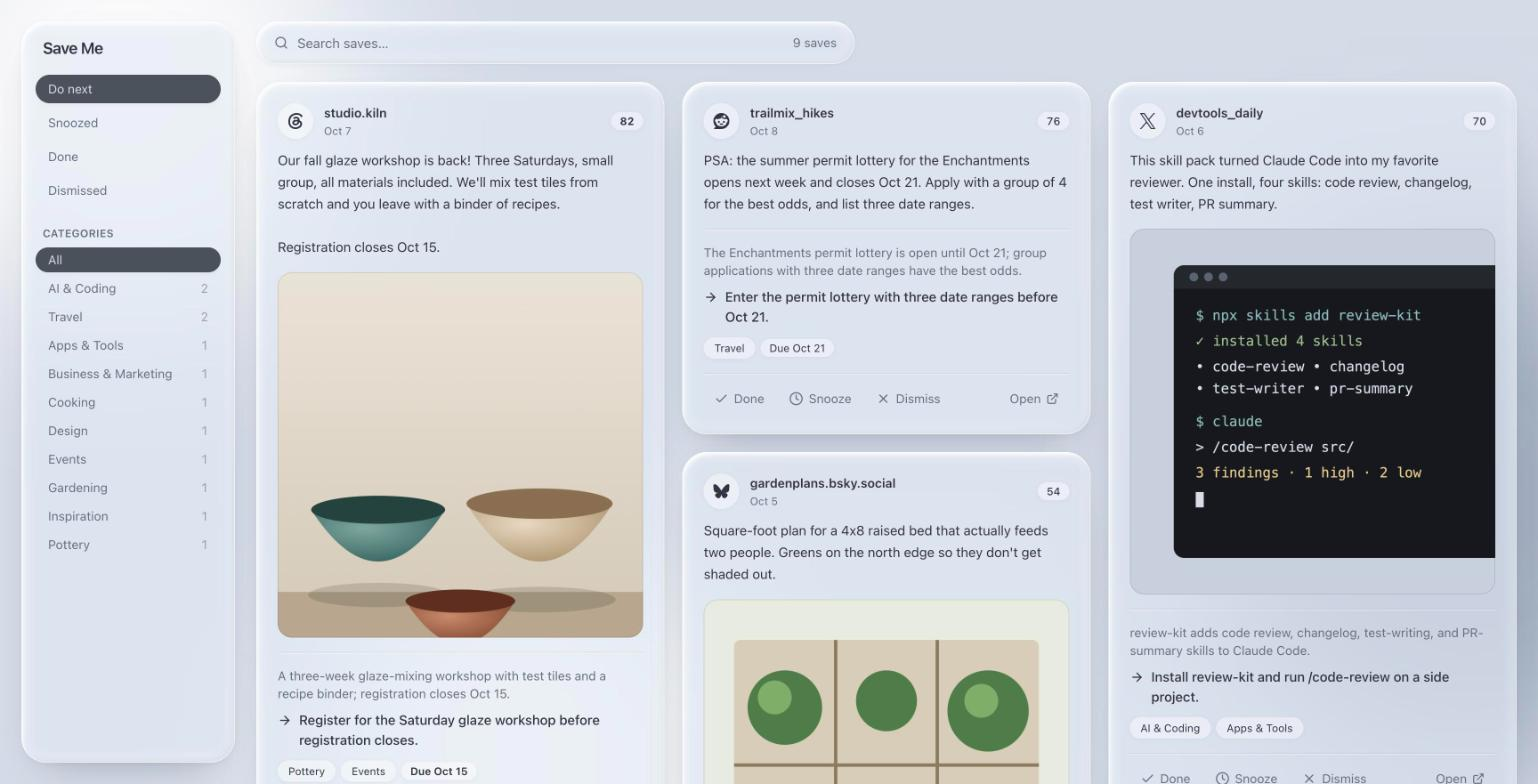
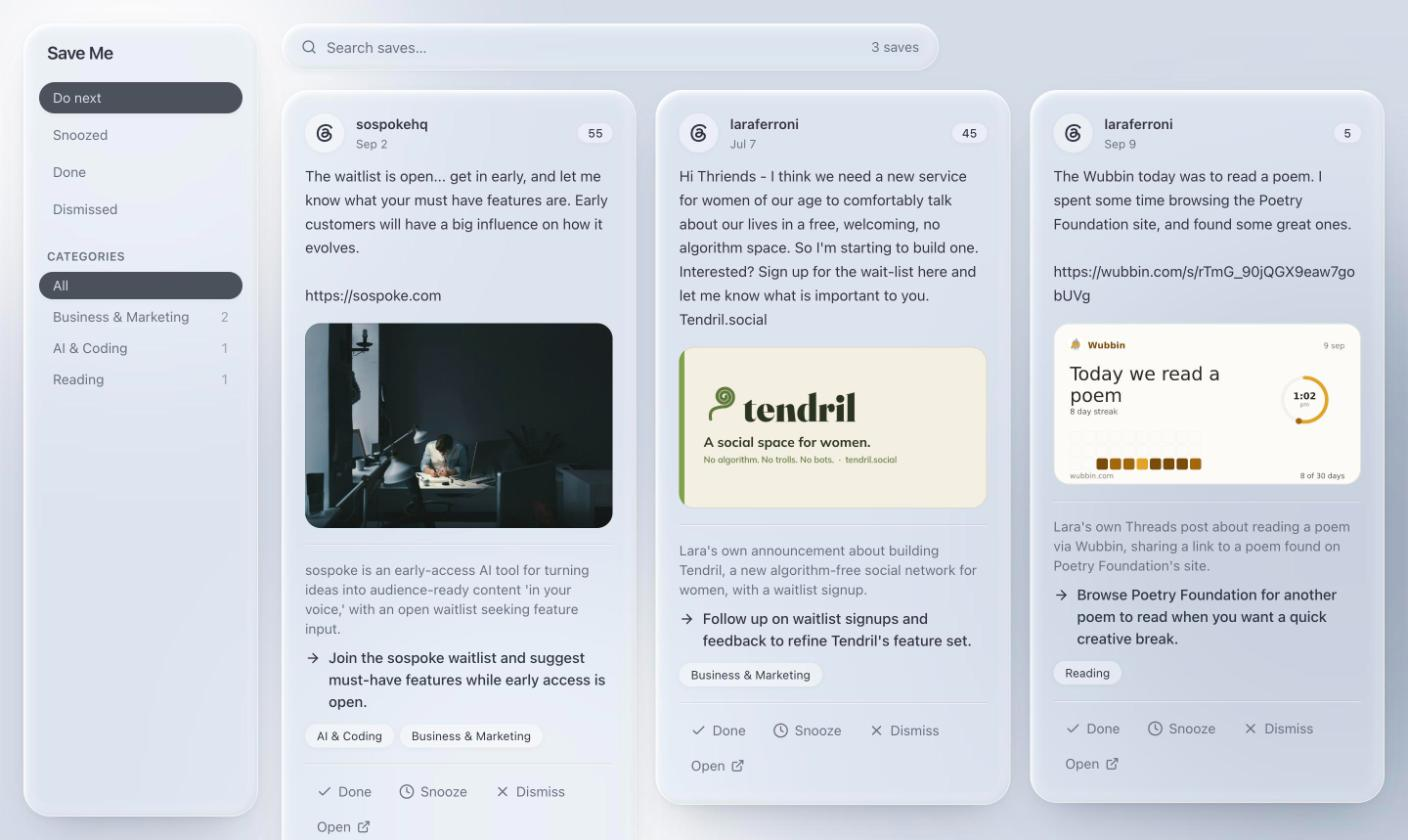
README screenshot of real posts; wrap long links in cards
The screenshot now shows the author's own Threads posts with real
classifier output instead of made-up saves. Taking it showed that long
URLs ran off the card, so post text now wraps anywhere.

diff --git a/frontend/src/components/SaveCard.tsx b/frontend/src/components/SaveCard.tsx
@@ -59,7 +59,8 @@ export function SaveCard({ save, actionable, onUpdate, onCategory }: Props) {
 
       {body && (
         <div className="mt-3 text-[15px] leading-relaxed">
-          <p className={`whitespace-pre-line ${long && !expanded ? 'line-clamp-5' : ''}`}>{body}</p>
+          {/* overflow-wrap: anywhere lets long URLs break instead of running off the card. */}
+          <p className={`whitespace-pre-line [overflow-wrap:anywhere] ${long && !expanded ? 'line-clamp-5' : ''}`}>{body}</p>
           {long && (
             <button type="button" className="text-soft mt-1 text-sm font-medium hover:underline" onClick={() => setExpanded(!expanded)}>
               {expanded ? 'Show less' : 'Show more'}

diff --git a/README.md b/README.md
@@ -6,9 +6,9 @@ Save Me pulls your saved posts from Threads, Instagram, Bluesky, X, and Reddit i
 
 Everything runs locally. There is no hosted service and no account to create.
 
-![The Save Me viewer: a "Do next" queue of saved posts from Threads, Reddit, X, and Bluesky, each with a summary, a suggested next step, categories, and a deadline where there is one.](docs/screenshot.jpg)
+![The Save Me viewer: a "Do next" queue of three saved Threads posts, each with its link preview image, a summary, a suggested next step from Claude, and categories.](docs/screenshot.jpg)
 
-<sub>The screenshot shows made-up example saves.</sub>
+<sub>The example saves are the author's own Threads posts. The summaries and next steps are real classifier output.</sub>
 
 ## What you get
 
